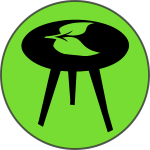
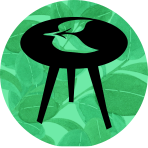
testing out stand-alone page with chart embed

diff --git a/public/404.html b/public/404.html
@@ -1,3 +1,3 @@
-<!doctype html><html lang=en><head><meta charset=utf-8><meta name=viewport content="width=device-width,initial-scale=1"><meta http-equiv=x-ua-compatible content="ie=edge"><title>404 Not Found | Drop Leaf Games</title><meta name=author content="Bryce Castor"><meta name=description content><meta name=generator content="Hugo 0.82.0"><link rel=canonical href=https://dropleafgames.com/404.html><meta property="og:title" content="404 Page not found"><meta property="og:description" content><meta property="og:type" content="website"><meta property="og:url" content="https://dropleafgames.com/404.html"><meta name=twitter:card content="summary"><meta name=twitter:title content="404 Page not found"><meta name=twitter:description content><link rel=stylesheet href=/css/semantic.min.css><link rel=stylesheet href=/css/icomoon.css><link rel=stylesheet href=/css/OverlayScrollbars.min.css><link rel=stylesheet href=/css/github-markdown.css><link rel=stylesheet href=/css/site.css><style>a:not(.ui.button):hover{text-decoration:underline}a:not(.ui.button){color:#2e8b57!important}body.default{background-color:#f7f7f7}</style></head><body class=default><nav class="ui secondary menu dream-menu"><div class=item><i class="large link bullseye icon dream-flip-toggle" title="Flip it!"></i></div><div class=item><i class="large link home icon" title=Home onclick="window.location.href='https://dropleafgames.com/'"></i></div></nav><div class=flip-container><div class=flipper><section class=front><div class=dream-max-width><div class=dream-404-container><div class="ui basic center aligned segment"><h1 class="ui header">Oops...You are lost in dream.<div class="sub header">Don't worry though, click the button below to wake up.</div></h1><p><button class="ui secondary button" onclick="window.location.href='/'">Back to home</button></p></div></div><footer class="ui basic center aligned segment" style=background-color:initial><p>© 2021 Drop Leaf Games</p><p>Powered by <a href=https://gohugo.io/ target=_blank>Hugo</a> with theme <a href=https://github.com/g1eny0ung/hugo-theme-dream target=_blank>Dream</a>.</p></footer></div></section><section class=back><div class=dream-max-width><header class="ui basic very padded segment dream-header"><div class="ui small circular image"><img src=/img/avatar.png alt=avatar></div><div class=content><h1 class="ui medium header">Bryce Castor's blog<div class="sub header">Motto</div></h1><article class="ui horizontal list"><a class=item href=/posts><i class="archive icon" title=Archives></i></a>
+<!doctype html><html lang=en><head><meta charset=utf-8><meta name=viewport content="width=device-width,initial-scale=1"><meta http-equiv=x-ua-compatible content="ie=edge"><title>404 Not Found | Drop Leaf Games</title><link href=img/favicon.ico rel="shortcut icon" type=image/x-icon><meta name=author content="Bryce Castor"><meta name=description content><meta name=generator content="Hugo 0.82.0"><link rel=canonical href=https://dropleafgames.com/404.html><meta property="og:title" content="404 Page not found"><meta property="og:description" content><meta property="og:type" content="website"><meta property="og:url" content="https://dropleafgames.com/404.html"><meta name=twitter:card content="summary"><meta name=twitter:title content="404 Page not found"><meta name=twitter:description content><link rel=stylesheet href=/css/semantic.min.css><link rel=stylesheet href=/css/icomoon.css><link rel=stylesheet href=/css/OverlayScrollbars.min.css><link rel=stylesheet href=/css/github-markdown.css><link rel=stylesheet href=/css/site.css><style>a:not(.ui.button):hover{text-decoration:underline}a:not(.ui.button){color:#2e8b57!important}body.default{background-color:#f7f7f7;background-image:url(/img/background.jpg)}</style></head><body class=default><nav class="ui secondary menu dream-menu"><div class=item><i class="large link bullseye icon dream-flip-toggle" title="Flip it!"></i></div><div class=item><i class="large link home icon" title=Home onclick="window.location.href='https://dropleafgames.com/'"></i></div></nav><div class=flip-container><div class=flipper><section class=front><div class=dream-max-width><div class=dream-404-container><div class="ui basic center aligned segment"><h1 class="ui header">Oops...You are lost in dream.<div class="sub header">Don't worry though, click the button below to wake up.</div></h1><p><button class="ui secondary button" onclick="window.location.href='/'">Back to home</button></p></div></div><footer class="ui basic center aligned segment" style=background-color:initial><p>© 2021 Drop Leaf Games</p><p>Powered by <a href=https://gohugo.io/ target=_blank>Hugo</a> with theme <a href=https://github.com/g1eny0ung/hugo-theme-dream target=_blank>Dream</a>.</p></footer></div></section><section class=back><div class=dream-max-width><header class="ui basic very padded segment dream-header"><div class="ui small circular image"><img src=/img/avatar.png alt=avatar></div><div class=content><h1 class="ui medium header">Bryce Castor's blog<div class="sub header">Motto</div></h1><article class="ui horizontal list"><a class=item href=/posts><i class="archive icon" title=Archives></i></a>
 <a class=item href=/categories><i class="th list icon" title="All Categories"></i></a>
 <a class=item href=/tags><i class="tags icon" title="All Tags"></i></a></article></div></header><div class="ui relaxed grid dream-grid dream-back"><div class="sixteen wide mobile eight wide tablet four wide computer column dream-column"><article class="ui segment"><div class="ui medium header">Social Links</div><nav class="ui secondary menu dream-menu dream-socials"><div class=item><a href=mailto:bryce.castor@gmail.com><i class="large mail icon" title=Email></i></a></div></nav></article></div><div class="sixteen wide mobile eight wide tablet four wide computer column dream-column"></div></div></div></section></div></div><script>window.defaultDark=null,window.backgroundDark=null,window.backgroundImageDark=null,window.darkNav=null,window.hasTwitterEmbed=null,window.hasTwitterEmbed&&(window.twttr=function(c,d,e){var b,f=c.getElementsByTagName(d)[0],a=window.twttr||{};return c.getElementById(e)?a:(b=c.createElement(d),b.id=e,b.src='https://platform.twitter.com/widgets.js',f.parentNode.insertBefore(b,f),a._e=[],a.ready=function(b){a._e.push(b)},a)}(document,'script','twitter-wjs'))</script><script src=/js/jquery.min.js></script><script src=/js/semantic.min.js></script><script src=/js/jquery.overlayScrollbars.min.js></script><script src=/js/header.js></script><script src=/js/main.js></script><script src=/js/theme.js></script></body></html>

diff --git a/public/index.html b/public/index.html
@@ -1,4 +1,4 @@
-<!doctype html><html lang=en><head><meta charset=utf-8><meta name=viewport content="width=device-width,initial-scale=1"><meta http-equiv=x-ua-compatible content="ie=edge"><title>Home | Drop Leaf Games</title><meta name=author content="Bryce Castor"><meta name=description content><meta name=generator content="Hugo 0.82.0"><link rel=canonical href=https://dropleafgames.com/><meta property="og:title" content="Drop Leaf Games"><meta property="og:description" content><meta property="og:type" content="website"><meta property="og:url" content="https://dropleafgames.com/"><meta name=twitter:card content="summary"><meta name=twitter:title content="Drop Leaf Games"><meta name=twitter:description content><link rel=stylesheet href=/css/semantic.min.css><link rel=stylesheet href=/css/icomoon.css><link rel=stylesheet href=/css/OverlayScrollbars.min.css><link rel=stylesheet href=/css/github-markdown.css><link rel=stylesheet href=/css/site.css><style>a:not(.ui.button):hover{text-decoration:underline}a:not(.ui.button){color:#2e8b57!important}body.default{background-color:#f7f7f7}</style></head><body class=default><nav class="ui secondary menu dream-menu"><div class=item><i class="large link bullseye icon dream-flip-toggle" title="Flip it!"></i></div><div class=item><i class="large link home icon" title=Home onclick="window.location.href='https://dropleafgames.com/'"></i></div></nav><div class=flip-container><div class=flipper><section class=front><div class=dream-max-width><header class="ui basic very padded segment dream-header"><div class="ui small circular image"><img src=/img/avatar.png alt=avatar></div><div class=content><h1 class="ui medium header">Bryce Castor's blog<div class="sub header">Motto</div></h1><article class="ui horizontal list"><a class=item href=/posts><i class="archive icon" title=Archives></i></a>
+<!doctype html><html lang=en><head><meta charset=utf-8><meta name=viewport content="width=device-width,initial-scale=1"><meta http-equiv=x-ua-compatible content="ie=edge"><title>Home | Drop Leaf Games</title><link href=img/favicon.ico rel="shortcut icon" type=image/x-icon><meta name=author content="Bryce Castor"><meta name=description content><meta name=generator content="Hugo 0.82.0"><link rel=canonical href=https://dropleafgames.com/><meta property="og:title" content="Drop Leaf Games"><meta property="og:description" content><meta property="og:type" content="website"><meta property="og:url" content="https://dropleafgames.com/"><meta name=twitter:card content="summary"><meta name=twitter:title content="Drop Leaf Games"><meta name=twitter:description content><link rel=stylesheet href=/css/semantic.min.css><link rel=stylesheet href=/css/icomoon.css><link rel=stylesheet href=/css/OverlayScrollbars.min.css><link rel=stylesheet href=/css/github-markdown.css><link rel=stylesheet href=/css/site.css><style>a:not(.ui.button):hover{text-decoration:underline}a:not(.ui.button){color:#2e8b57!important}body.default{background-color:#f7f7f7;background-image:url(/img/background.jpg)}</style></head><body class=default><nav class="ui secondary menu dream-menu"><div class=item><i class="large link bullseye icon dream-flip-toggle" title="Flip it!"></i></div><div class=item><i class="large link home icon" title=Home onclick="window.location.href='https://dropleafgames.com/'"></i></div></nav><div class=flip-container><div class=flipper><section class=front><div class=dream-max-width><header class="ui basic very padded segment dream-header"><div class="ui small circular image"><img src=/img/avatar.png alt=avatar></div><div class=content><h1 class="ui medium header">Bryce Castor's blog<div class="sub header">Motto</div></h1><article class="ui horizontal list"><a class=item href=/posts><i class="archive icon" title=Archives></i></a>
 <a class=item href=/categories><i class="th list icon" title="All Categories"></i></a>
 <a class=item href=/tags><i class="tags icon" title="All Tags"></i></a></article></div></header><div class="ui relaxed grid dream-grid"><div class="sixteen wide mobile eight wide tablet eight wide computer four wide large screen four wide widescreen column dream-column"><article class="ui attached segment card dream-card"><a class=image href=https://dropleafgames.com/posts/my-first-post/><img src=/img/default4.jpg alt="Starting this blog back up"></a><div class=content><h2 class="ui medium header"><a href=/posts/my-first-post/>Starting this blog back up</a></h2><div class=meta><p class=date>Sunday, Apr 4, 2021</p></div><div class=description>almost ready to upload again!
 testing change reflected in netlify also was having some trouble with hugo vs hugo extended 255 error.</div></div><div class="extra content"><div class=author>@&nbsp;Bryce Castor</div><div class=reading-time><i class="clock icon"></i>1 minute read</div></div></article></div><div class="sixteen wide mobile eight wide tablet eight wide computer four wide large screen four wide widescreen column dream-column"></div></div><footer class="ui basic center aligned segment" style=background-color:initial><p>© 2021 Drop Leaf Games</p><p>Powered by <a href=https://gohugo.io/ target=_blank>Hugo</a> with theme <a href=https://github.com/g1eny0ung/hugo-theme-dream target=_blank>Dream</a>.</p></footer></div></section><section class=back><div class=dream-max-width><header class="ui basic very padded segment dream-header"><div class="ui small circular image"><img src=/img/avatar.png alt=avatar></div><div class=content><h1 class="ui medium header">Bryce Castor's blog<div class="sub header">Motto</div></h1><article class="ui horizontal list"><a class=item href=/posts><i class="archive icon" title=Archives></i></a>

diff --git a/public/posts/index.html b/public/posts/index.html
@@ -1,4 +1,4 @@
-<!doctype html><html lang=en><head><meta charset=utf-8><meta name=viewport content="width=device-width,initial-scale=1"><meta http-equiv=x-ua-compatible content="ie=edge"><title>Posts | Drop Leaf Games</title><meta name=author content="Bryce Castor"><meta name=description content><meta name=generator content="Hugo 0.82.0"><link rel=canonical href=https://dropleafgames.com/posts/><meta property="og:title" content="Posts"><meta property="og:description" content><meta property="og:type" content="website"><meta property="og:url" content="https://dropleafgames.com/posts/"><meta name=twitter:card content="summary"><meta name=twitter:title content="Posts"><meta name=twitter:description content><link rel=stylesheet href=/css/semantic.min.css><link rel=stylesheet href=/css/icomoon.css><link rel=stylesheet href=/css/OverlayScrollbars.min.css><link rel=stylesheet href=/css/github-markdown.css><link rel=stylesheet href=/css/site.css><style>a:not(.ui.button):hover{text-decoration:underline}a:not(.ui.button){color:#2e8b57!important}body.default{background-color:#f7f7f7}</style></head><body class=default><nav class="ui secondary menu dream-menu"><div class=item><i class="large link bullseye icon dream-flip-toggle" title="Flip it!"></i></div><div class=item><i class="large link home icon" title=Home onclick="window.location.href='https://dropleafgames.com/'"></i></div></nav><div class=flip-container><div class=flipper><section class=front><div class=dream-max-width><header class="ui basic very padded segment dream-header"><div class="ui small circular image"><img src=/img/avatar.png alt=avatar></div><div class=content><h1 class="ui medium header">Bryce Castor's blog<div class="sub header">Motto</div></h1><article class="ui horizontal list"><a class=item href=/posts><i class="archive icon" title=Archives></i></a>
+<!doctype html><html lang=en><head><meta charset=utf-8><meta name=viewport content="width=device-width,initial-scale=1"><meta http-equiv=x-ua-compatible content="ie=edge"><title>Posts | Drop Leaf Games</title><link href=img/favicon.ico rel="shortcut icon" type=image/x-icon><meta name=author content="Bryce Castor"><meta name=description content><meta name=generator content="Hugo 0.82.0"><link rel=canonical href=https://dropleafgames.com/posts/><meta property="og:title" content="Posts"><meta property="og:description" content><meta property="og:type" content="website"><meta property="og:url" content="https://dropleafgames.com/posts/"><meta name=twitter:card content="summary"><meta name=twitter:title content="Posts"><meta name=twitter:description content><link rel=stylesheet href=/css/semantic.min.css><link rel=stylesheet href=/css/icomoon.css><link rel=stylesheet href=/css/OverlayScrollbars.min.css><link rel=stylesheet href=/css/github-markdown.css><link rel=stylesheet href=/css/site.css><style>a:not(.ui.button):hover{text-decoration:underline}a:not(.ui.button){color:#2e8b57!important}body.default{background-color:#f7f7f7;background-image:url(/img/background.jpg)}</style></head><body class=default><nav class="ui secondary menu dream-menu"><div class=item><i class="large link bullseye icon dream-flip-toggle" title="Flip it!"></i></div><div class=item><i class="large link home icon" title=Home onclick="window.location.href='https://dropleafgames.com/'"></i></div></nav><div class=flip-container><div class=flipper><section class=front><div class=dream-max-width><header class="ui basic very padded segment dream-header"><div class="ui small circular image"><img src=/img/avatar.png alt=avatar></div><div class=content><h1 class="ui medium header">Bryce Castor's blog<div class="sub header">Motto</div></h1><article class="ui horizontal list"><a class=item href=/posts><i class="archive icon" title=Archives></i></a>
 <a class=item href=/categories><i class="th list icon" title="All Categories"></i></a>
 <a class=item href=/tags><i class="tags icon" title="All Tags"></i></a></article></div></header><div class="ui container"><article class="ui segment dream-posts-section"><h2 class="ui header">Posts<div class="ui grey sub header"></div></h2><h3 class="ui header">2021</h3><ul><li><a href=https://dropleafgames.com/posts/my-first-post/>Starting this blog back up</a></li></ul></article></div><footer class="ui basic center aligned segment" style=background-color:initial><p>© 2021 Drop Leaf Games</p><p>Powered by <a href=https://gohugo.io/ target=_blank>Hugo</a> with theme <a href=https://github.com/g1eny0ung/hugo-theme-dream target=_blank>Dream</a>.</p></footer></div></section><section class=back><div class=dream-max-width><header class="ui basic very padded segment dream-header"><div class="ui small circular image"><img src=/img/avatar.png alt=avatar></div><div class=content><h1 class="ui medium header">Bryce Castor's blog<div class="sub header">Motto</div></h1><article class="ui horizontal list"><a class=item href=/posts><i class="archive icon" title=Archives></i></a>
 <a class=item href=/categories><i class="th list icon" title="All Categories"></i></a>

diff --git a/public/categories/index.html b/public/categories/index.html
@@ -1,4 +1,4 @@
-<!doctype html><html lang=en><head><meta charset=utf-8><meta name=viewport content="width=device-width,initial-scale=1"><meta http-equiv=x-ua-compatible content="ie=edge"><title>All Categories | Drop Leaf Games</title><meta name=author content="Bryce Castor"><meta name=description content><meta name=generator content="Hugo 0.82.0"><link rel=canonical href=https://dropleafgames.com/categories/><meta property="og:title" content="Categories"><meta property="og:description" content><meta property="og:type" content="website"><meta property="og:url" content="https://dropleafgames.com/categories/"><meta name=twitter:card content="summary"><meta name=twitter:title content="Categories"><meta name=twitter:description content><link rel=stylesheet href=/css/semantic.min.css><link rel=stylesheet href=/css/icomoon.css><link rel=stylesheet href=/css/OverlayScrollbars.min.css><link rel=stylesheet href=/css/github-markdown.css><link rel=stylesheet href=/css/site.css><style>a:not(.ui.button):hover{text-decoration:underline}a:not(.ui.button){color:#2e8b57!important}body.default{background-color:#f7f7f7}</style></head><body class=default><nav class="ui secondary menu dream-menu"><div class=item><i class="large link bullseye icon dream-flip-toggle" title="Flip it!"></i></div><div class=item><i class="large link home icon" title=Home onclick="window.location.href='https://dropleafgames.com/'"></i></div></nav><div class=flip-container><div class=flipper><section class=front><div class=dream-max-width><header class="ui basic very padded segment dream-header"><div class="ui small circular image"><img src=/img/avatar.png alt=avatar></div><div class=content><h1 class="ui medium header">Bryce Castor's blog<div class="sub header">Motto</div></h1><article class="ui horizontal list"><a class=item href=/posts><i class="archive icon" title=Archives></i></a>
+<!doctype html><html lang=en><head><meta charset=utf-8><meta name=viewport content="width=device-width,initial-scale=1"><meta http-equiv=x-ua-compatible content="ie=edge"><title>All Categories | Drop Leaf Games</title><link href=img/favicon.ico rel="shortcut icon" type=image/x-icon><meta name=author content="Bryce Castor"><meta name=description content><meta name=generator content="Hugo 0.82.0"><link rel=canonical href=https://dropleafgames.com/categories/><meta property="og:title" content="Categories"><meta property="og:description" content><meta property="og:type" content="website"><meta property="og:url" content="https://dropleafgames.com/categories/"><meta name=twitter:card content="summary"><meta name=twitter:title content="Categories"><meta name=twitter:description content><link rel=stylesheet href=/css/semantic.min.css><link rel=stylesheet href=/css/icomoon.css><link rel=stylesheet href=/css/OverlayScrollbars.min.css><link rel=stylesheet href=/css/github-markdown.css><link rel=stylesheet href=/css/site.css><style>a:not(.ui.button):hover{text-decoration:underline}a:not(.ui.button){color:#2e8b57!important}body.default{background-color:#f7f7f7;background-image:url(/img/background.jpg)}</style></head><body class=default><nav class="ui secondary menu dream-menu"><div class=item><i class="large link bullseye icon dream-flip-toggle" title="Flip it!"></i></div><div class=item><i class="large link home icon" title=Home onclick="window.location.href='https://dropleafgames.com/'"></i></div></nav><div class=flip-container><div class=flipper><section class=front><div class=dream-max-width><header class="ui basic very padded segment dream-header"><div class="ui small circular image"><img src=/img/avatar.png alt=avatar></div><div class=content><h1 class="ui medium header">Bryce Castor's blog<div class="sub header">Motto</div></h1><article class="ui horizontal list"><a class=item href=/posts><i class="archive icon" title=Archives></i></a>
 <a class=item href=/categories><i class="th list icon" title="All Categories"></i></a>
 <a class=item href=/tags><i class="tags icon" title="All Tags"></i></a></article></div></header><div class="ui container"><article class="ui segment dream-categories-section"><h2 class="ui header">All Categories<div class="ui grey sub header">0 categories</div></h2></article></div><footer class="ui basic center aligned segment" style=background-color:initial><p>© 2021 Drop Leaf Games</p><p>Powered by <a href=https://gohugo.io/ target=_blank>Hugo</a> with theme <a href=https://github.com/g1eny0ung/hugo-theme-dream target=_blank>Dream</a>.</p></footer></div></section><section class=back><div class=dream-max-width><header class="ui basic very padded segment dream-header"><div class="ui small circular image"><img src=/img/avatar.png alt=avatar></div><div class=content><h1 class="ui medium header">Bryce Castor's blog<div class="sub header">Motto</div></h1><article class="ui horizontal list"><a class=item href=/posts><i class="archive icon" title=Archives></i></a>
 <a class=item href=/categories><i class="th list icon" title="All Categories"></i></a>

diff --git a/public/tags/index.html b/public/tags/index.html
@@ -1,4 +1,4 @@
-<!doctype html><html lang=en><head><meta charset=utf-8><meta name=viewport content="width=device-width,initial-scale=1"><meta http-equiv=x-ua-compatible content="ie=edge"><title>All Tags | Drop Leaf Games</title><meta name=author content="Bryce Castor"><meta name=description content><meta name=generator content="Hugo 0.82.0"><link rel=canonical href=https://dropleafgames.com/tags/><meta property="og:title" content="Tags"><meta property="og:description" content><meta property="og:type" content="website"><meta property="og:url" content="https://dropleafgames.com/tags/"><meta name=twitter:card content="summary"><meta name=twitter:title content="Tags"><meta name=twitter:description content><link rel=stylesheet href=/css/semantic.min.css><link rel=stylesheet href=/css/icomoon.css><link rel=stylesheet href=/css/OverlayScrollbars.min.css><link rel=stylesheet href=/css/github-markdown.css><link rel=stylesheet href=/css/site.css><style>a:not(.ui.button):hover{text-decoration:underline}a:not(.ui.button){color:#2e8b57!important}body.default{background-color:#f7f7f7}</style></head><body class=default><nav class="ui secondary menu dream-menu"><div class=item><i class="large link bullseye icon dream-flip-toggle" title="Flip it!"></i></div><div class=item><i class="large link home icon" title=Home onclick="window.location.href='https://dropleafgames.com/'"></i></div></nav><div class=flip-container><div class=flipper><section class=front><div class=dream-max-width><header class="ui basic very padded segment dream-header"><div class="ui small circular image"><img src=/img/avatar.png alt=avatar></div><div class=content><h1 class="ui medium header">Bryce Castor's blog<div class="sub header">Motto</div></h1><article class="ui horizontal list"><a class=item href=/posts><i class="archive icon" title=Archives></i></a>
+<!doctype html><html lang=en><head><meta charset=utf-8><meta name=viewport content="width=device-width,initial-scale=1"><meta http-equiv=x-ua-compatible content="ie=edge"><title>All Tags | Drop Leaf Games</title><link href=img/favicon.ico rel="shortcut icon" type=image/x-icon><meta name=author content="Bryce Castor"><meta name=description content><meta name=generator content="Hugo 0.82.0"><link rel=canonical href=https://dropleafgames.com/tags/><meta property="og:title" content="Tags"><meta property="og:description" content><meta property="og:type" content="website"><meta property="og:url" content="https://dropleafgames.com/tags/"><meta name=twitter:card content="summary"><meta name=twitter:title content="Tags"><meta name=twitter:description content><link rel=stylesheet href=/css/semantic.min.css><link rel=stylesheet href=/css/icomoon.css><link rel=stylesheet href=/css/OverlayScrollbars.min.css><link rel=stylesheet href=/css/github-markdown.css><link rel=stylesheet href=/css/site.css><style>a:not(.ui.button):hover{text-decoration:underline}a:not(.ui.button){color:#2e8b57!important}body.default{background-color:#f7f7f7;background-image:url(/img/background.jpg)}</style></head><body class=default><nav class="ui secondary menu dream-menu"><div class=item><i class="large link bullseye icon dream-flip-toggle" title="Flip it!"></i></div><div class=item><i class="large link home icon" title=Home onclick="window.location.href='https://dropleafgames.com/'"></i></div></nav><div class=flip-container><div class=flipper><section class=front><div class=dream-max-width><header class="ui basic very padded segment dream-header"><div class="ui small circular image"><img src=/img/avatar.png alt=avatar></div><div class=content><h1 class="ui medium header">Bryce Castor's blog<div class="sub header">Motto</div></h1><article class="ui horizontal list"><a class=item href=/posts><i class="archive icon" title=Archives></i></a>
 <a class=item href=/categories><i class="th list icon" title="All Categories"></i></a>
 <a class=item href=/tags><i class="tags icon" title="All Tags"></i></a></article></div></header><div class="ui container"><article class="ui segment dream-tags-section"><h2 class="ui header">All Tags<div class="ui grey sub header">0 tags</div></h2></article></div><footer class="ui basic center aligned segment" style=background-color:initial><p>© 2021 Drop Leaf Games</p><p>Powered by <a href=https://gohugo.io/ target=_blank>Hugo</a> with theme <a href=https://github.com/g1eny0ung/hugo-theme-dream target=_blank>Dream</a>.</p></footer></div></section><section class=back><div class=dream-max-width><header class="ui basic very padded segment dream-header"><div class="ui small circular image"><img src=/img/avatar.png alt=avatar></div><div class=content><h1 class="ui medium header">Bryce Castor's blog<div class="sub header">Motto</div></h1><article class="ui horizontal list"><a class=item href=/posts><i class="archive icon" title=Archives></i></a>
 <a class=item href=/categories><i class="th list icon" title="All Categories"></i></a>

diff --git a/public/posts/my-first-post/index.html b/public/posts/my-first-post/index.html
@@ -1,7 +1,7 @@
-<!doctype html><html lang=en><head><meta charset=utf-8><meta name=viewport content="width=device-width,initial-scale=1"><meta http-equiv=x-ua-compatible content="ie=edge"><title>Starting this blog back up | Drop Leaf Games</title><meta name=author content="Bryce Castor"><meta name=description content="almost ready to upload again!
+<!doctype html><html lang=en><head><meta charset=utf-8><meta name=viewport content="width=device-width,initial-scale=1"><meta http-equiv=x-ua-compatible content="ie=edge"><title>Starting this blog back up | Drop Leaf Games</title><link href=img/favicon.ico rel="shortcut icon" type=image/x-icon><meta name=author content="Bryce Castor"><meta name=description content="almost ready to upload again!
  testing change reflected in netlify also was having some trouble with hugo vs hugo extended 255 error.  "><meta name=generator content="Hugo 0.82.0"><link rel=canonical href=https://dropleafgames.com/posts/my-first-post/><meta property="og:title" content="Starting this blog back up"><meta property="og:description" content="almost ready to upload again!
  testing change reflected in netlify also was having some trouble with hugo vs hugo extended 255 error.  "><meta property="og:type" content="article"><meta property="og:url" content="https://dropleafgames.com/posts/my-first-post/"><meta property="article:section" content="posts"><meta property="article:published_time" content="2021-04-04T23:28:52-07:00"><meta property="article:modified_time" content="2021-04-04T23:28:52-07:00"><meta name=twitter:card content="summary"><meta name=twitter:title content="Starting this blog back up"><meta name=twitter:description content="almost ready to upload again!
- testing change reflected in netlify also was having some trouble with hugo vs hugo extended 255 error.  "><link rel=stylesheet href=/css/semantic.min.css><link rel=stylesheet href=/css/icomoon.css><link rel=stylesheet href=/css/OverlayScrollbars.min.css><link rel=stylesheet href=/css/github-markdown.css><link rel=stylesheet href=/css/site.css><style>a:not(.ui.button):hover{text-decoration:underline}a:not(.ui.button){color:#2e8b57!important}body.default{background-color:#f7f7f7}</style></head><body class=default><nav class="ui secondary menu dream-menu"><div class=item><i class="large link bullseye icon dream-flip-toggle" title="Flip it!"></i></div><div class=item><i class="large link home icon" title=Home onclick="window.location.href='https://dropleafgames.com/'"></i></div></nav><div class=flip-container><div class=flipper><section class=front><div class=dream-max-width><div class="ui relaxed grid dream-grid dream-grid-single"><aside class="sixteen wide mobile sixteen wide tablet four wide computer column dream-single-aside"><div class="ui segment actions"><button class="ui circular icon button save-as-image" title="Save as image" onclick=savePostAsImg()>
+ testing change reflected in netlify also was having some trouble with hugo vs hugo extended 255 error.  "><link rel=stylesheet href=/css/semantic.min.css><link rel=stylesheet href=/css/icomoon.css><link rel=stylesheet href=/css/OverlayScrollbars.min.css><link rel=stylesheet href=/css/github-markdown.css><link rel=stylesheet href=/css/site.css><style>a:not(.ui.button):hover{text-decoration:underline}a:not(.ui.button){color:#2e8b57!important}body.default{background-color:#f7f7f7;background-image:url(/img/background.jpg)}</style></head><body class=default><nav class="ui secondary menu dream-menu"><div class=item><i class="large link bullseye icon dream-flip-toggle" title="Flip it!"></i></div><div class=item><i class="large link home icon" title=Home onclick="window.location.href='https://dropleafgames.com/'"></i></div></nav><div class=flip-container><div class=flipper><section class=front><div class=dream-max-width><div class="ui relaxed grid dream-grid dream-grid-single"><aside class="sixteen wide mobile sixteen wide tablet four wide computer column dream-single-aside"><div class="ui segment actions"><button class="ui circular icon button save-as-image" title="Save as image" onclick=savePostAsImg()>
 <i class="save icon"></i></button>
 <a href="https://twitter.com/intent/tweet?text=Starting%20this%20blog%20back%20up&url=https%3a%2f%2fdropleafgames.com%2fposts%2fmy-first-post%2f" class="ui circular twitter icon button"><i class="twitter icon"></i></a>
 <a href="https://facebook.com/sharer/sharer.php?u=https%3a%2f%2fdropleafgames.com%2fposts%2fmy-first-post%2f" class="ui circular facebook icon button"><i class="facebook icon"></i></a></div></aside><div class="sixteen wide mobile sixteen wide tablet twelve wide computer column markdown-body dream-single" id=dream-save-post-as-img><section class="ui top attached segment"><header><h1 class="ui large header">Starting this blog back up<div class="sub header">@

diff --git a/content/projects/testproject.md b/content/projects/testproject.md
@@ -1,0 +1,3 @@
+# Test project page with chart embedded
+
+<iframe width="600" height="371" seamless frameborder="0" scrolling="no" src="https://docs.google.com/spreadsheets/d/e/2PACX-1vR0UA0gJX9efoHdX0n6Klyy9STUJm0rQqTl6yre_03HPxkQRwTtHiVNLhRNBNGLuhqYmo5sn2JwmMfl/pubchart?oid=114318071&amp;format=interactive"></iframe>
